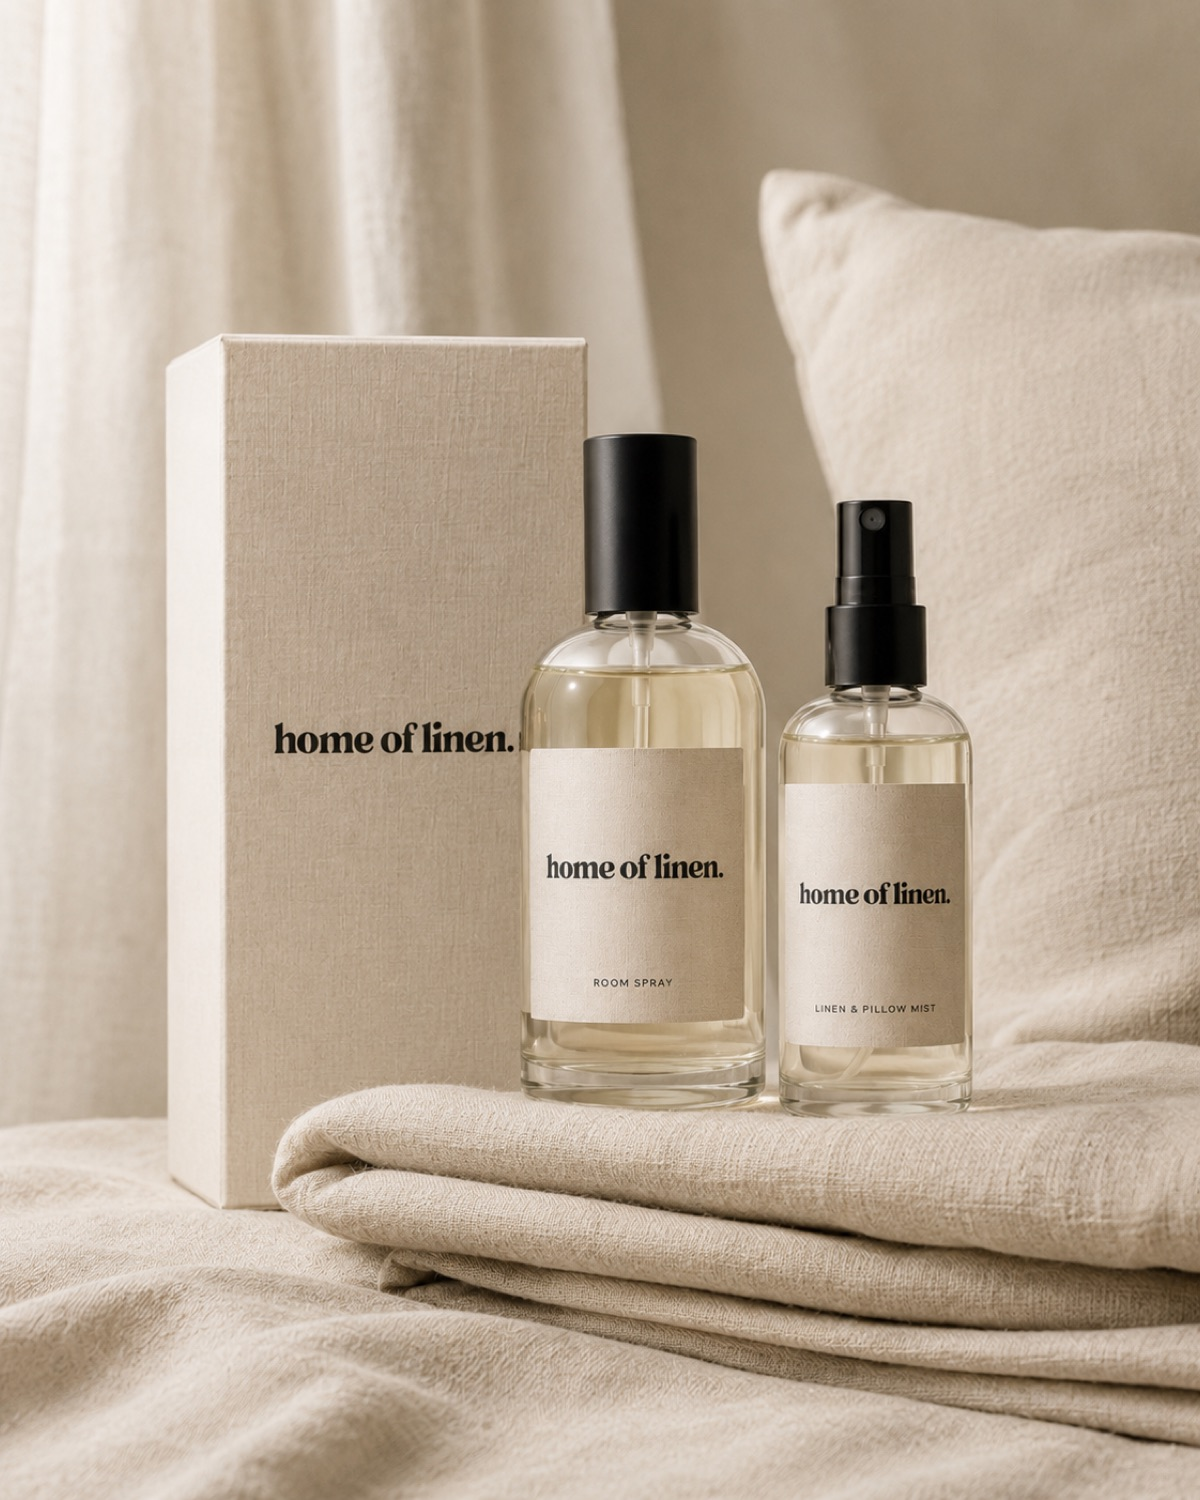
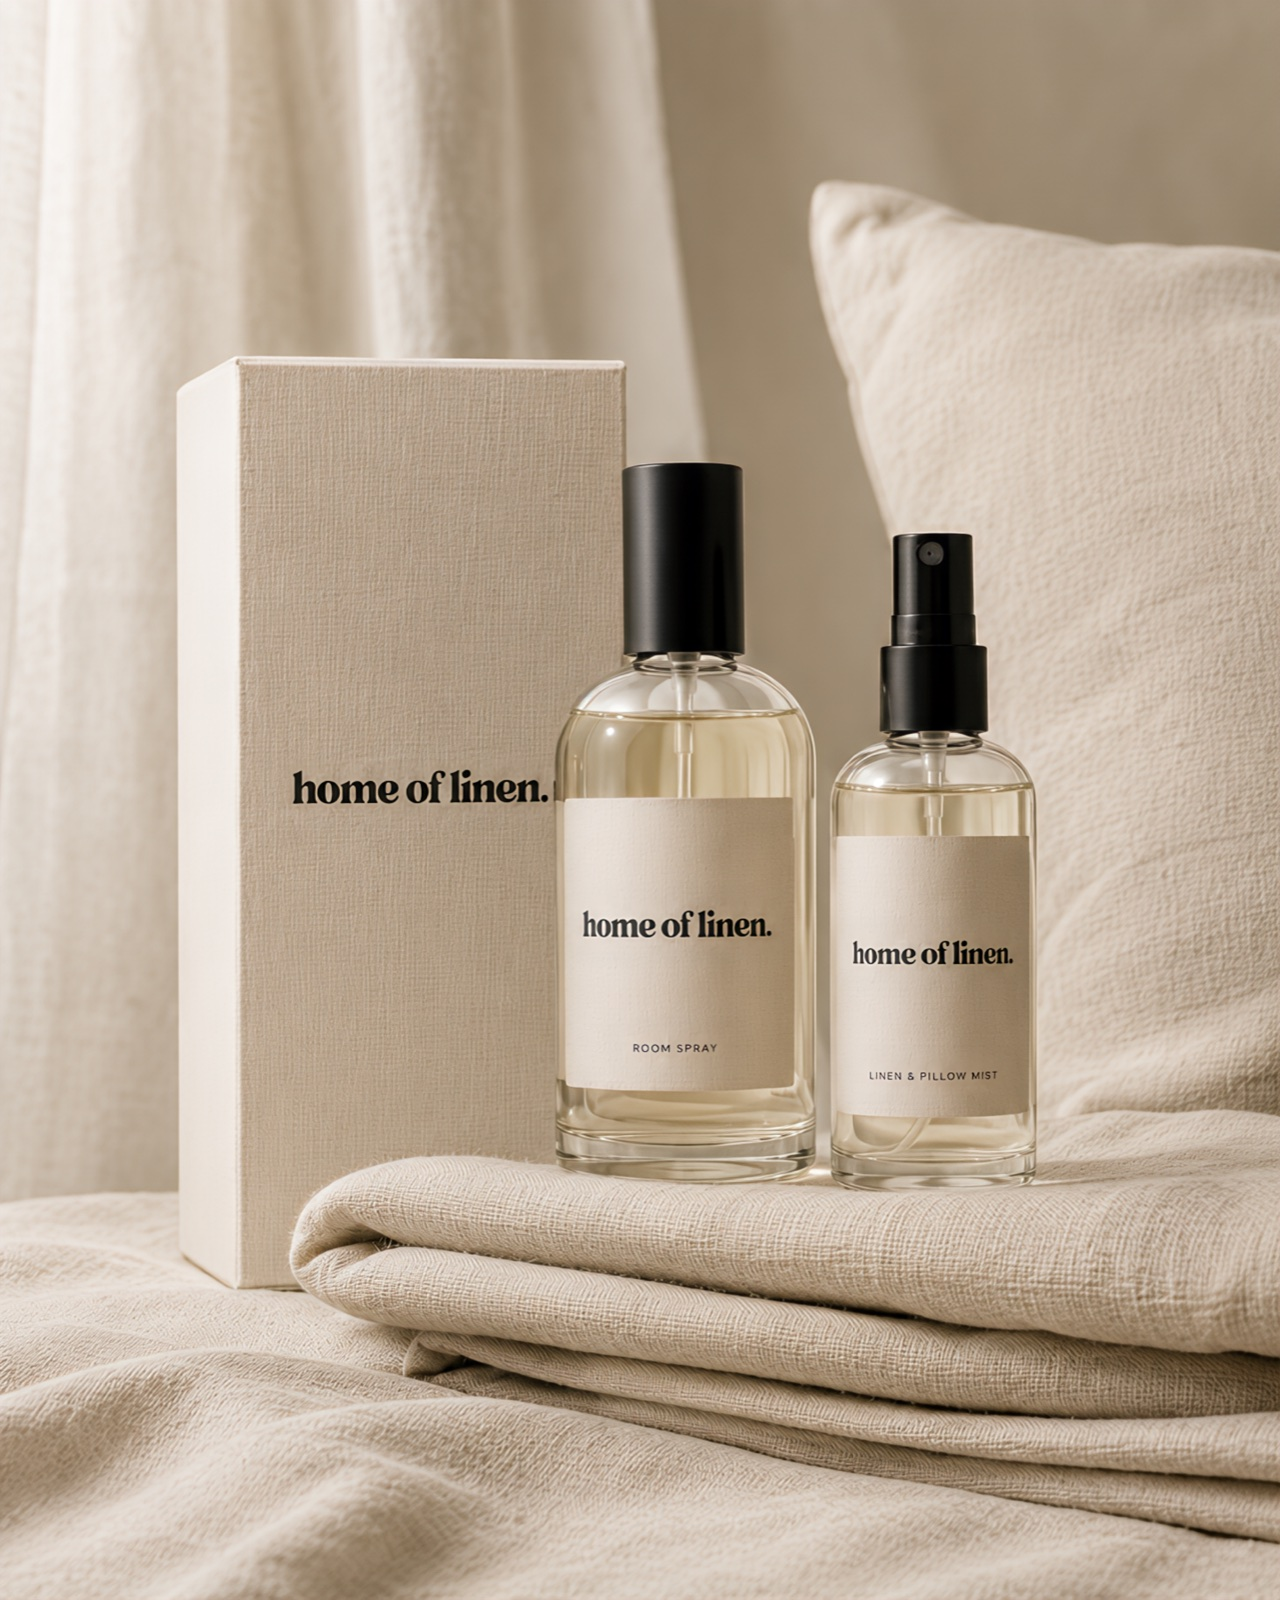
Update fragrance product images

Changed region(s): [[0.3392, 0.7973, 0.37, 0.828]]

diff --git a/products.js b/products.js
@@ -265,7 +265,7 @@ window.HOL_PRODUCTS = {
       name: "Room Spray",
       includes: "150 ml Room Spray",
       description: "An immediate room refresh for bedrooms, living rooms, bathrooms and entrances. The elegant bottle delivers a clean fragrance moment throughout the home and is intended for the air and room atmosphere.",
-      image: "assets/fragrance/home-fragrance-collection.jpg",
+      image: "assets/fragrance/room-spray.jpg",
       fragranceBased: true,
       noPrice: true,
       variants: []